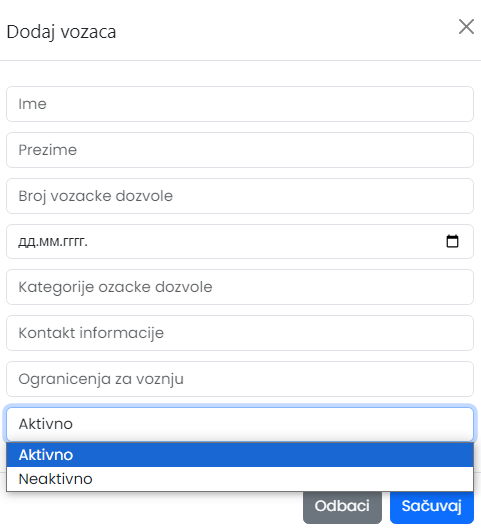
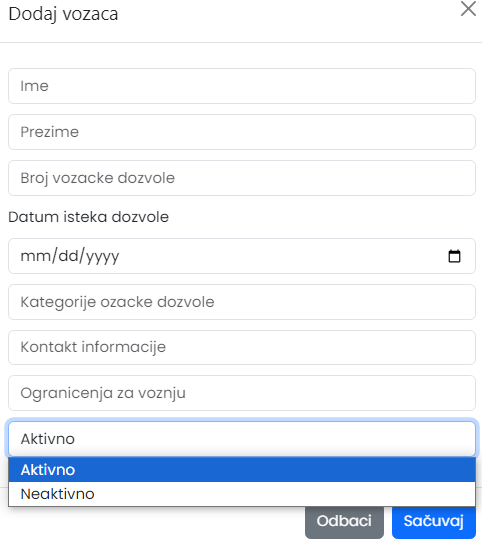
Add files via upload

diff --git a/web/vozaci.html b/web/vozaci.html
@@ -47,16 +47,25 @@
                         <div class="modal-body">
                             <!-- <input type="text" class="form-control" placeholder="id" aria-label="id" id="id"> -->
                             <input type="text" class="form-control" placeholder="Ime" aria-label="Ime" id="ime">
-                            <input type="text" class="form-control" placeholder="Prezime" aria-label="Username" id="prezime">
-                            <input type="text" class="form-control" placeholder="Broj vozacke dozvole" aria-label="Username" id="broj_vozacke_dozvole">
-                            <input type="date" class="form-control" placeholder="Datum isteka dozvole" aria-label="Username" id="datum_isteka_dozvole">
-                            <input type="text" class="form-control" placeholder="Kategorije ozacke dozvole" aria-label="Username" id="kategorije_vozacke_dozvole">
-                            <input type="text" class="form-control" placeholder="Kontakt informacije" aria-label="Username" id="kontakt_informacije">
-                            <input type="text" class="form-control" placeholder="Ogranicenja za voznju" aria-label="Username" id="ogranicenja_za_voznju">
+                            <input type="text" class="form-control" placeholder="Prezime" aria-label="Username"
+                                id="prezime">
+                            <input type="text" class="form-control" placeholder="Broj vozacke dozvole"
+                                aria-label="Username" id="broj_vozacke_dozvole">
+                            <form>
+                                <label for="datum_isteka_dozvole">Datum isteka dozvole</label>
+                                <input type="date" class="form-control" placeholder="Datum isteka dozvole"
+                                    aria-label="Username" id="datum_isteka_dozvole">
+                            </form>
+                            <input type="text" class="form-control" placeholder="Kategorije ozacke dozvole"
+                                aria-label="Username" id="kategorije_vozacke_dozvole">
+                            <input type="text" class="form-control" placeholder="Kontakt informacije"
+                                aria-label="Username" id="kontakt_informacije">
+                            <input type="text" class="form-control" placeholder="Ogranicenja za voznju"
+                                aria-label="Username" id="ogranicenja_za_voznju">
                             <select class="form-control" id="status">
                                 <option value="aktivno">Aktivno</option>
                                 <option value="neaktivno">Neaktivno</option>
-                            </select>  
+                            </select>
                             <p id="greskaUpisa"></p>
                         </div>
                         <div class="modal-footer">
@@ -93,36 +102,45 @@
     </div>
 
     <!-- Update modal -->
-    <div class="modal fade" id="updateModal" tabindex="-1" aria-labelledby="exampleModalLabel"
-                aria-hidden="true">
-                <div class="modal-dialog">
-                    <div class="modal-content">
-                        <div class="modal-header">
-                            <h1 class="modal-title fs-5" id="exampleModalLabel">Izmjeni vozaca</h1>
-                            <button type="button" class="btn-close" data-bs-dismiss="modal" aria-label="Close"></button>
-                        </div>
-                        <div class="modal-body">
-                            <!-- <input type="text" class="form-control" placeholder="id" aria-label="id" id="idUpdate"> -->
-                            <input type="text" class="form-control" placeholder="ime" aria-label="ime" id="imeUpdate">
-                            <input type="text" class="form-control" placeholder="prezime" aria-label="prezime" id="prezimeUpdate">
-                            <input type="text" class="form-control" placeholder="broj_vozacke_dozvole" aria-label="Username" id="broj_vozacke_dozvoleUpdate">
-                            <input type="date" class="form-control" placeholder="datum_isteka_dozvole" aria-label="Username" id="datum_isteka_dozvoleUpdate">
-                            <input type="text" class="form-control" placeholder="kategorije_vozacke_dozvole" aria-label="Username" id="kategorije_vozacke_dozvoleUpdate">
-                            <input type="text" class="form-control" placeholder="kontakt_informacije" aria-label="Username" id="kontakt_informacijeUpdate">
-                            <input type="text" class="form-control" placeholder="ogranicenja_za_voznju" aria-label="Username" id="ogranicenja_za_voznjuUpdate">
-                            <select class="form-control" id="statusUpdate">
-                                <option value="aktivno">Aktivno</option>
-                                <option value="neaktivno">Neaktivno</option>
-                            </select>                        
-                            <p id="greskaUpisaUpdate"></p>
-                        </div>
-                        <div class="modal-footer">
-                            <button type="button" class="btn btn-secondary" data-bs-dismiss="modal">Odbaci</button>
-                            <button type="button" class="btn btn-primary" onclick="updateVozaca()">Sačuvaj izmjene</button>
-                        </div>
-                    </div>
+    <div class="modal fade" id="updateModal" tabindex="-1" aria-labelledby="exampleModalLabel" aria-hidden="true">
+        <div class="modal-dialog">
+            <div class="modal-content">
+                <div class="modal-header">
+                    <h1 class="modal-title fs-5" id="exampleModalLabel">Izmjeni vozaca</h1>
+                    <button type="button" class="btn-close" data-bs-dismiss="modal" aria-label="Close"></button>
+                </div>
+                <div class="modal-body">
+                    <!-- <input type="text" class="form-control" placeholder="id" aria-label="id" id="idUpdate"> -->
+                    <input type="text" class="form-control" placeholder="ime" aria-label="ime" id="imeUpdate">
+                    <input type="text" class="form-control" placeholder="prezime" aria-label="prezime"
+                        id="prezimeUpdate">
+                    <input type="text" class="form-control" placeholder="broj_vozacke_dozvole" aria-label="Username"
+                        id="broj_vozacke_dozvoleUpdate">
+
+                    <form>
+                        <label for="datum_isteka_dozvoleUpdate">Datum isteka dozvole</label>
+                        <input type="date" class="form-control" placeholder="datum_isteka_dozvole" aria-label="Username"
+                            id="datum_isteka_dozvoleUpdate">
+                    </form>
+                    <input type="text" class="form-control" placeholder="kategorije_vozacke_dozvole"
+                        aria-label="Username" id="kategorije_vozacke_dozvoleUpdate">
+                    <input type="text" class="form-control" placeholder="kontakt_informacije" aria-label="Username"
+                        id="kontakt_informacijeUpdate">
+                    <input type="text" class="form-control" placeholder="ogranicenja_za_voznju" aria-label="Username"
+                        id="ogranicenja_za_voznjuUpdate">
+                    <select class="form-control" id="statusUpdate">
+                        <option value="aktivno">Aktivno</option>
+                        <option value="neaktivno">Neaktivno</option>
+                    </select>
+                    <p id="greskaUpisaUpdate"></p>
+                </div>
+                <div class="modal-footer">
+                    <button type="button" class="btn btn-secondary" data-bs-dismiss="modal">Odbaci</button>
+                    <button type="button" class="btn btn-primary" onclick="updateVozaca()">Sačuvaj izmjene</button>
                 </div>
             </div>
+        </div>
+    </div>
 
     <script src="https://cdn.jsdelivr.net/npm/bootstrap@5.3.3/dist/js/bootstrap.bundle.min.js"
         integrity="sha384-YvpcrYf0tY3lHB60NNkmXc5s9fDVZLESaAA55NDzOxhy9GkcIdslK1eN7N6jIeHz"

diff --git a/web/index.html b/web/index.html
@@ -47,9 +47,15 @@
                         <div class="modal-body">
                             <input type="text" class="form-control" placeholder="Marka" aria-label="Marka" id="marka">
                             <input type="text" class="form-control" placeholder="Model" aria-label="Model" id="model">
-                            <input type="text" class="form-control" placeholder="Registracija" aria-label="Username" id="registracija">
-                            <input type="date" class="form-control" placeholder="Datum registracije" aria-label="Username" id="datumRegistracije">
-                            <input type="text" class="form-control" placeholder="Godište" aria-label="Username" id="godiste">
+                            <input type="text" class="form-control" placeholder="Registracija" aria-label="Username"
+                                id="registracija">
+                            <form>
+                                <label for="datumRegistracije">Datum registracije</label>
+                                <input type="date" class="form-control" placeholder="Datum registracije"
+                                    aria-label="Username" id="datumRegistracije">
+                            </form>
+                            <input type="text" class="form-control" placeholder="Godište" aria-label="Username"
+                                id="godiste">
                             <select class="form-control" id="gorivo">
                                 <option value="dizel">Dizel</option>
                                 <option value="benzin">Benzin</option>
@@ -96,40 +102,45 @@
     </div>
 
     <!-- Update modal -->
-    <div class="modal fade" id="updateModal" tabindex="-1" aria-labelledby="exampleModalLabel"
-                aria-hidden="true">
-                <div class="modal-dialog">
-                    <div class="modal-content">
-                        <div class="modal-header">
-                            <h1 class="modal-title fs-5" id="exampleModalLabel">Izmjeni vozilo</h1>
-                            <button type="button" class="btn-close" data-bs-dismiss="modal" aria-label="Close"></button>
-                        </div>
-                        <div class="modal-body">
-                            <input type="text" class="form-control" placeholder="Marka" aria-label="Marka" id="markaUpdate">
-                            <input type="text" class="form-control" placeholder="Model" aria-label="Model" id="modelUpdate">
-                            <input type="text" class="form-control" placeholder="Registracija" aria-label="Username" id="registracijaUpdate">
-                            <input type="date" class="form-control" placeholder="Datum registracije" aria-label="Username" id="datumRegistracijeUpdate">
-                            <input type="text" class="form-control" placeholder="Godište" aria-label="Username" id="godisteUpdate">
-                            <select class="form-control" id="gorivoUpdate">
-                                <option value="dizel">Dizel</option>
-                                <option value="benzin">Benzin</option>
-                                <option value="plin">Plin</option>
-                            </select>
-                            <br>
-                            <select class="form-control" id="statusUpdate">
-                                <option value="dostupno">Dostupno</option>
-                                <option value="u servisu">U servisu</option>
-                                <option value="rezervisano">Rezervisano</option>
-                            </select>
-                            <p id="greskaUpisaUpdate"></p>
-                        </div>
-                        <div class="modal-footer">
-                            <button type="button" class="btn btn-secondary" data-bs-dismiss="modal">Odbaci</button>
-                            <button type="button" class="btn btn-primary" onclick="updateVozilo()">Sačuvaj izmjene</button>
-                        </div>
-                    </div>
+    <div class="modal fade" id="updateModal" tabindex="-1" aria-labelledby="exampleModalLabel" aria-hidden="true">
+        <div class="modal-dialog">
+            <div class="modal-content">
+                <div class="modal-header">
+                    <h1 class="modal-title fs-5" id="exampleModalLabel">Izmjeni vozilo</h1>
+                    <button type="button" class="btn-close" data-bs-dismiss="modal" aria-label="Close"></button>
+                </div>
+                <div class="modal-body">
+                    <input type="text" class="form-control" placeholder="Marka" aria-label="Marka" id="markaUpdate">
+                    <input type="text" class="form-control" placeholder="Model" aria-label="Model" id="modelUpdate">
+                    <input type="text" class="form-control" placeholder="Registracija" aria-label="Username"
+                        id="registracijaUpdate">
+                    <form>
+                        <label for="datumRegistracijeUpdate">Datum registracije</label>
+                        <input type="date" class="form-control" placeholder="Datum registracije" aria-label="Username"
+                            id="datumRegistracijeUpdate">
+                    </form>
+                    <input type="text" class="form-control" placeholder="Godište" aria-label="Username"
+                        id="godisteUpdate">
+                    <select class="form-control" id="gorivoUpdate">
+                        <option value="dizel">Dizel</option>
+                        <option value="benzin">Benzin</option>
+                        <option value="plin">Plin</option>
+                    </select>
+                    <br>
+                    <select class="form-control" id="statusUpdate">
+                        <option value="dostupno">Dostupno</option>
+                        <option value="u servisu">U servisu</option>
+                        <option value="rezervisano">Rezervisano</option>
+                    </select>
+                    <p id="greskaUpisaUpdate"></p>
+                </div>
+                <div class="modal-footer">
+                    <button type="button" class="btn btn-secondary" data-bs-dismiss="modal">Odbaci</button>
+                    <button type="button" class="btn btn-primary" onclick="updateVozilo()">Sačuvaj izmjene</button>
                 </div>
             </div>
+        </div>
+    </div>
 
     <script src="https://cdn.jsdelivr.net/npm/bootstrap@5.3.3/dist/js/bootstrap.bundle.min.js"
         integrity="sha384-YvpcrYf0tY3lHB60NNkmXc5s9fDVZLESaAA55NDzOxhy9GkcIdslK1eN7N6jIeHz"

diff --git a/web/radninalog.html b/web/radninalog.html
@@ -51,16 +51,22 @@
                                 id="vozac_id">
                             <input type="text" class="form-control" placeholder="Opis zadatka" aria-label="Username"
                                 id="opis_zadatka">
-                            <input type="datetime-local" value="2023-01-01T12:00" class="form-control"
-                                placeholder="Datum i vrijeme izdavanja" aria-label="Username"
-                                id="datum_i_vrijeme_izdavanja">
-                            <input type="datetime-local" value="2023-01-01T12:00" class="form-control"
-                                placeholder="Rok zavrsavanja" aria-label="Username" id="rok_zavrsavanja">
-                                <select class="form-control" id="status">
-                                    <option value="otvoren">Otvoren</option>
-                                    <option value="u toku">U toku</option>
-                                    <option value="zatvoren">Zatvoren</option>
-                                </select>
+                            <form>
+                                <label for="datum_i_vrijeme_izdavanja">Datum i vrijeme izdavanja</label>
+                                <input type="datetime-local" value="2023-01-01T12:00" class="form-control"
+                                    placeholder="Datum i vrijeme izdavanja" aria-label="Username"
+                                    id="datum_i_vrijeme_izdavanja">
+                            </form>
+                            <form>
+                                <label for="rok_zavrsavanja">Rok zavrsavanja</label>
+                                <input type="datetime-local" value="2023-01-01T12:00" class="form-control"
+                                    placeholder="Rok zavrsavanja" aria-label="Username" id="rok_zavrsavanja">
+                            </form>
+                            <select class="form-control" id="status">
+                                <option value="otvoren">Otvoren</option>
+                                <option value="u toku">U toku</option>
+                                <option value="zatvoren">Zatvoren</option>
+                            </select>
                             <p id="greskaUpisa"></p>
                         </div>
                         <div class="modal-footer">
@@ -108,16 +114,22 @@
                         id="voziloUpdate">
                     <input type="text" class="form-control" placeholder="Opis zadatka" aria-label="Username"
                         id="opisZadatkaUpdate">
-                    <input type="datetime-local" value="2023-01-01T12:00" class="form-control"
-                        placeholder="Datum i vrijeme izdavanja" aria-label="Username"
-                        id="datum_i_vrijeme_izdavanjaUpdate">
-                    <input type="datetime-local" value="2023-01-01T12:00" class="form-control" placeholder="Gorivo"
-                        aria-label="Username" id="rok_zavrsavanjaUpdate">
-                        <select class="form-control" id="statusUpdate">
-                            <option value="otvoren">Otvoren</option>
-                            <option value="u toku">U toku</option>
-                            <option value="zatvoren">Zatvoren</option>
-                        </select>
+                    <form>
+                        <label for="datum_i_vrijeme_izdavanjaUpdate">Datum i vrijeme izdavanja</label>
+                        <input type="datetime-local" value="2023-01-01T12:00" class="form-control"
+                            placeholder="Datum i vrijeme izdavanja" aria-label="Username"
+                            id="datum_i_vrijeme_izdavanjaUpdate">
+                    </form>
+                    <form>
+                        <label for="rok_zavrsavanjaUpdate">Rok zavrsavanja</label>
+                        <input type="datetime-local" value="2023-01-01T12:00" class="form-control"
+                            placeholder="Rok zavrsavanja" aria-label="Username" id="rok_zavrsavanjaUpdate">
+                    </form>
+                    <select class="form-control" id="statusUpdate">
+                        <option value="otvoren">Otvoren</option>
+                        <option value="u toku">U toku</option>
+                        <option value="zatvoren">Zatvoren</option>
+                    </select>
                     <p id="greskaUpisaUpdate"></p>
                 </div>
                 <div class="modal-footer">

diff --git a/README.md b/README.md
@@ -7,7 +7,7 @@ Projekat “Vozni park” predstavlja sistem evidencije  podataka o vozilima, vo
 Cilj ovog projekta je da pruži jednostavno rješenje za administraciju vozila i vozača, sa mogućnošću generisanja radnih naloga na osnovu dostupnih podataka. U sklopu projekta, korišćene su sledeće tehnologije:
 Python i FastAPI: Za razvoj backend-a, FastAPI je korišćen zbog svoje jednostavnosti i mogućnosti izrade API-ja koji efikasno komuniciraju sa bazom podataka. Backend podržava CRUD (Create, Read, Update, Delete) operacije, što omogućava sveobuhvatno upravljanje podacima.
 MySQL: Za čuvanje i upravljanje podacima, MySQL baza je korišćena zbog svoje pouzdanosti i široke upotrebe u industriji.
-JavaScript, HTML, CSS i Bootstrap: Na frontend strani, ove tehnologije su korišćene za izradu interaktivnog i responzivnog korisničkog interfejsa. Bootstrap je korišćen za brzu izradu vizuelno i funkcionalnih elemenata interfejsa.
+JavaScript, HTML, CSS i Bootstrap: Na frontend strani, ove tehnologije su korišćene za izradu interaktivnog i responzivnog korisničkog interfejsa. Bootstrap je korišćen za brzu izradu funkcionalnih elemenata interfejsa.
 
 
 # STRUKTURA PROJEKTA
@@ -42,7 +42,7 @@ Backend se sastoji od nekoliko ključnih komponenti:
 
 
 ### API rute
-Rute u ovom projektu su definisane tako što se prvo kreira API router (APIRouter()) kako bi se grupisale rute. Zatim se za svaku rutu definiše dekorator (npr. @router.post("/")). Unutar funkcije za rutu, specificira se šta ruta radi i povezuje se sa bazom koristeći db: Session = Depends(get_db). Nakon toga se šalju zahtevi bazi podataka i dobijaju odgovori. Na kraju, funkcija vraća podatke kao odgovor na zahtev, omogućavajući organizovano i efikasno upravljanje rutama i operacijama nad podacima u bazi.
+Rute u ovom projektu su definisane tako što se prvo kreira API router (APIRouter()) kako bi se grupisale rute. Zatim se za svaku rutu definiše dekorator (npr. @router.post("/")). Unutar funkcije za rutu, specificira se šta ruta radi i povezuje se sa bazom koristeći db: Session = Depends(get_db). Nakon toga se šalju zahtjevi bazi podataka i dobijaju odgovori. Na kraju, funkcija vraća podatke kao odgovor na zahtev, omogućavajući organizovano i efikasno upravljanje rutama i operacijama nad podacima u bazi.
 
 1. Create-API ruta koja omogućava kreiranje novih zapisa u bazi podataka.
 
@@ -134,7 +134,7 @@ class Vozac(Base):
 
 
 ### Šeme
-Šeme za radne naloge definišu strukturu i validaciju podataka pomoću Pydantica. Klase se kreiraju kao naslednici BaseModel iz Pydantica i predstavljaju modele podataka sa atributima i validacionim pravilima. Enumeracija (StatusRadnogNalogaEnum) definiše tri moguća statusa radnog naloga: otvoren, u toku, i završen. Ovo osigurava da atribut statusa može imati samo dozvoljene vrednosti. Bazična klasa (RadniNalogBase) sadrži osnovne atribute radnog naloga, uključujući ID vozila i vozača, opis zadatka, datum i vreme izdavanja, rok završavanja i status.
+Šeme za radne naloge definišu strukturu i validaciju podataka pomoću Pydantica. Klase se kreiraju kao naslednici BaseModel iz Pydantica i predstavljaju modele podataka sa atributima i validacionim pravilima. Enumeracija (StatusRadnogNalogaEnum) definiše tri moguća statusa radnog naloga: otvoren, u toku, i završen. Ovo osigurava da atribut statusa može imati samo dozvoljene vrijednosti. Bazična klasa (RadniNalogBase) sadrži osnovne atribute radnog naloga, uključujući ID vozila i vozača, opis zadatka, datum i vreme izdavanja, rok završavanja i status.
 Klasa za kreiranje (RadniNalogCreate) nasleđuje bazičnu klasu i koristi se za validaciju prilikom kreiranja novih radnih naloga. Klasa za izlazne podatke (RadniNalogOut) dodaje dodatni atribut id i koristi se za povratne podatke prema klijentu. Ova struktura omogućava striktno definisanje i validaciju podataka, čineći aplikaciju sigurnijom i pouzdanijom.
 
 _Šema radnog naloga:_
@@ -168,7 +168,7 @@ class RadniNalogOut(RadniNalogBase):
 Ovaj kod konfiguriše vezu sa MySQL bazom podataka koristeći SQLAlchemy i čita vrijednosti iz .env fajla za postavljanje parametara baze. Prvo se učitavaju vrijednosti iz .env fajla, uključujući URL baze podataka. Zatim se kreira engine koji povezuje SQLAlchemy sa bazom podataka.
 SessionLocal je konfigurisan za kreiranje sesija sa bazom, sa opcijama autocommit=False i autoflush=False za ručno upravljanje transakcijama i osvježavanjem podataka.
 Base je deklarativna baza klasa iz koje će sve SQLAlchemy klase modela naslijediti.
-Funkcija get_db definiše zavisnost koja upravlja životnim ciklusom sesije baze podataka, otvarajući sesiju pre operacija sa bazom i zatvarajući je nakon završetka operacija.
+Funkcija get_db definiše zavisnost koja upravlja životnim ciklusom sesije baze podataka, otvarajući sesiju prije operacija sa bazom i zatvarajući je nakon završetka operacija.
  
 _Sesija:_
 
@@ -203,7 +203,7 @@ def get_db():
 
 
 ### Main fajl
-Ovaj fajl definiše osnovnu konfiguraciju FastAPI aplikacije. Kreira se FastAPI instanca sa prilagođenim URL-ovima za dokumentaciju i dodaje se CORS middleware koji omogućava zahteve sa svih origin-a. Funkcija startup_event inicijalizuje bazu podataka pri pokretanju aplikacije pozivom init_db(). Definiše se jednostavna root ruta koja vraća "Hello, World", a sve definisane API rute uključene su pomoću app.include_router (api_router). 
+Ovaj fajl definiše osnovnu konfiguraciju FastAPI aplikacije. Kreira se FastAPI instanca sa prilagođenim URL-ovima za dokumentaciju i dodaje se CORS middleware koji omogućava zahtjeve sa svih origin-a. Funkcija startup_event inicijalizuje bazu podataka pri pokretanju aplikacije pozivom init_db(). Definiše se jednostavna root ruta koja vraća "Hello, World", a sve definisane API rute uključene su pomoću app.include_router (api_router). 
 
 _Main fajl:_
 
@@ -256,7 +256,7 @@ Frontend aplikacija sadrži sledeće komponente:
 
 
 ### HTML fajlovi
-Interfejs je organizovan kao jednostranična aplikacija sa bočnom navigacijom koja omogućava brzo prebacivanje između delova aplikacije. Glavni dio sadrži tabelu sa podacima vozila (vozača, radnih naloga), uključujući osnovne informacije. Takođe, sadrži dugme za dodavanje novog vozila (vozača, radnih naloga) koje otvara modalni prozor za unos novih podataka. Modalni prozor za unos podataka takođe sadrži formu sa poljima za unos informacija o vozilu (vozača, radnih naloga), kao i polja za odabir tipa goriva i statusa. Dodatno, postoji modalni prozor za izmenu vozila sa sličnom strukturom, omogućavajući ažuriranje postojećih podataka. JavaScript fajl app.js je uključen radi implementacije funkcionalnosti kao što su dodavanje i ažuriranje vozila.
+Interfejs je organizovan kao jednostranična aplikacija sa bočnom navigacijom koja omogućava brzo prebacivanje između dijelova aplikacije. Glavni dio sadrži tabelu sa podacima vozila (vozača, radnih naloga), uključujući osnovne njihove informacije. Takođe, sadrži dugme za dodavanje novog vozila (vozača, radnih naloga) koje otvara modalni prozor za unos novih podataka. Modalni prozor za unos podataka takođe sadrži formu sa poljima za unos informacija o vozilu (vozača, radnih naloga), kao i polja za odabir tipa goriva i statusa. Dodatno, postoji modalni prozor za j vozila sa sličnom strukturom, omogućavajući ažuriranje postojećih podataka. JavaScript fajl app.js je uključen radi implementacije funkcionalnosti kao što su dodavanje i ažuriranje vozila.
 
 
 _Primjer html koda za kreiranje tabele koja prikazuje podatke o vozilima:_
@@ -335,9 +335,17 @@ Takođe, implementirani su i date pickeri za vozače i vozila, dok su za radne n
 _Primjer html koda za kreiranje datetime picker-a:_
 
 ```html
- <input type="datetime-local" value="2023-01-01T12:00" class="form-control"
-                                placeholder="Datum i vrijeme izdavanja" aria-label="Username"
-                                id="datum_i_vrijeme_izdavanja">
+ <form>
+                                <label for="datum_i_vrijeme_izdavanja">Datum i vrijeme izdavanja</label>
+                                <input type="datetime-local" value="2023-01-01T12:00" class="form-control"
+                                    placeholder="Datum i vrijeme izdavanja" aria-label="Username"
+                                    id="datum_i_vrijeme_izdavanja">
+                            </form>
+                            <form>
+                                <label for="rok_zavrsavanja">Rok zavrsavanja</label>
+                                <input type="datetime-local" value="2023-01-01T12:00" class="form-control"
+                                    placeholder="Rok zavrsavanja" aria-label="Username" id="rok_zavrsavanja">
+                            </form>
 ```
  
 _Izgled datetime picker-a u pretraživaču:_
@@ -496,7 +504,7 @@ _Struktura baze podataka:_
 
 ![](images/baza.png)
 
-U projektu “Vozni Park”, veza sa bazom podataka ostvaruje se kroz .env fajl koji sadrži potrebne informacije kao što su link do baze, korisničko ime i lozinka. Ove informacije se koriste za uspostavljanje veze sa bazom podataka tokom sesije. U sesiji se kreira funkcija get_db koja omogućava API rutama da pristupaju bazi podataka. Za potrebe frontend dela aplikacije, postoji constants.js fajl u kojem je definisan base_url koji se koristi u JavaScript funkcijama za komunikaciju sa backend-om putem API-ja. Ovaj pristup omogućava efikasnu i sigurnu komunikaciju između frontend-a i backend-a u projektu “Vozni Park”.
+U projektu “Vozni Park”, veza sa bazom podataka ostvaruje se kroz .env fajl koji sadrži potrebne informacije kao što su link do baze, korisničko ime i lozinka. Ove informacije se koriste za uspostavljanje veze sa bazom podataka tokom sesije. U sesiji se kreira funkcija get_db koja omogućava API rutama da pristupaju bazi podataka. Za potrebe frontend dijela aplikacije, postoji constants.js fajl u kojem je definisan base_url koji se koristi u JavaScript funkcijama za komunikaciju sa backend-om putem API-ja. Ovaj pristup omogućava efikasnu i sigurnu komunikaciju između frontend-a i backend-a u projektu “Vozni Park”.
 
 
 # DOCKER INTEGRACIJA
